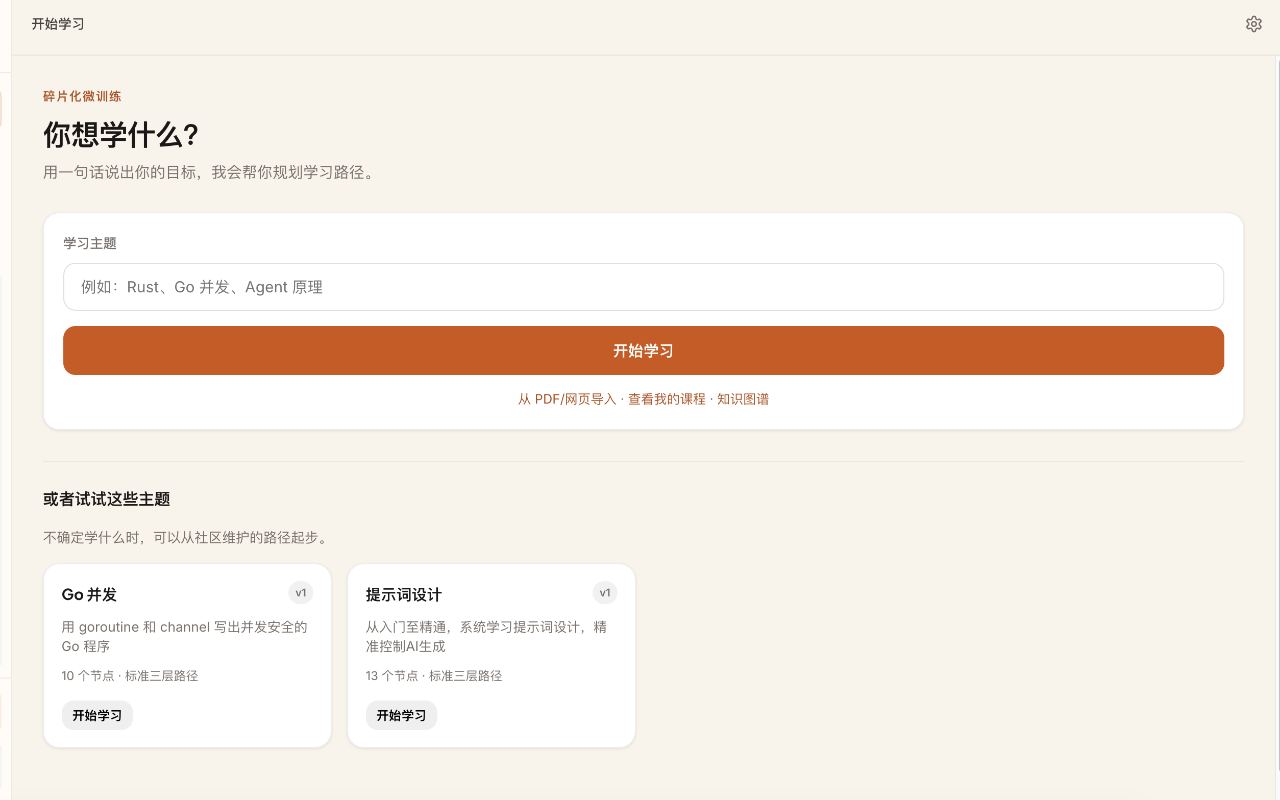
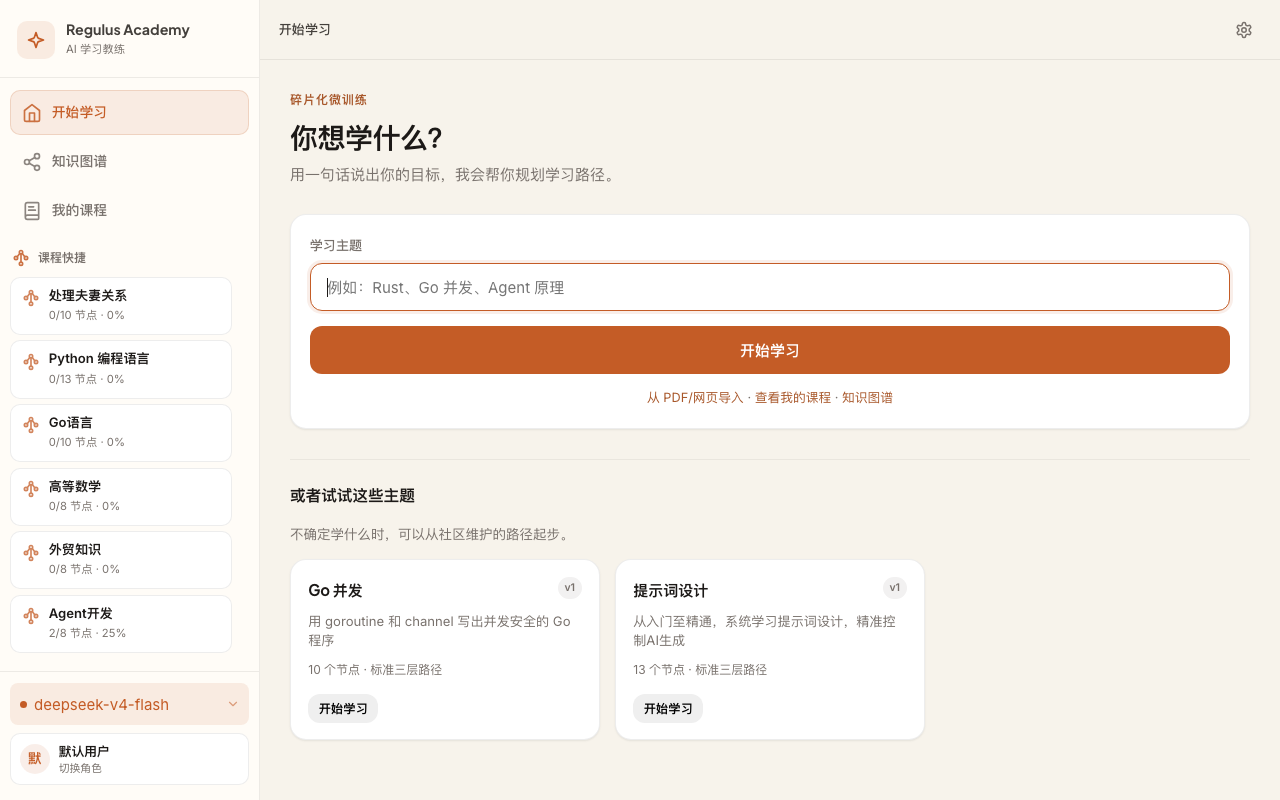
✨ feat: Enhance knowledge graph features and update documentation
- Refine knowledge graph to include dual views (图谱/目录) and dual themes (宣纸/星空) for improved user experience.
- Update related documentation across multiple files to reflect new features and terminology.
- Introduce new screenshots showcasing the updated graph views and themes.
- Ensure consistency in references to the knowledge graph throughout the documentation.

diff --git a/DESIGN.md b/DESIGN.md
@@ -1,33 +1,31 @@
 # Regulus Academy — 设计理念
 
-> 这些原则是在无数次自我否定和竞品体验中沉淀下来的。
-> 不是凭空想出来的，而是被 DeepTutor 的配置劝退、被 OpenMAIC 的慢节奏拖到放弃之后，一点点挖出来的答案。
+> 这些原则来自一个在职工程师的真实学习处境：时间碎、精力少、又怕半途而废还有因为完美主义导致的难以开始做出行动。
+> 不是对照表上设计出来的，是在通勤、午休、哄睡孩子之后——一次次反复试错之后沉淀下来的。
 
 ---
 
 ## 一、我们不是老师，是教练
 
-老师站在讲台上，对着 50 个人讲同一堂课。教练坐在你旁边，看你的动作，告诉你"这里肩膀再低一点"。
+老师站在讲台上，对着 50 个人讲同一堂课。教练坐在你旁边，看你的动作，告诉你"这里肩膀再低一点"。先让你能用起来，当你开始入门一个领域后，你才有动力学的更深。
 
 **教练的两个核心行为：**
 - **知道你现在在哪**——不给你推已经会的，也不给你推太难的；用户画像和学习目标会裁剪公共知识树，聚焦该练的部分
-- **只纠正你最该纠正的那一个动作**——不是把教科书写进对话框
+- **只纠正你最该纠正的那一个动作**——不是把教科书写进对话框，而是陪你关注当前最有可能用到的
 
 ## 二、15 分钟是一个神圣的单位
 
 不是 45 分钟，不是 2 小时，是 **15 分钟**。
 
-因为通勤地铁是 15 分钟，午休间隙是 15 分钟，哄睡孩子之后的精力残值是 15 分钟。
+因为通勤地铁是 15 分钟，午休间隙是 15 分钟，哄睡孩子之后的精力残值是 15 分钟，想刷手机，15分钟可能就看了几个短视频。
 
-一个 15 分钟包含：一个知识点 + 一个练习 + 一次反馈。做完了，大脑收到了明确的"完成"信号，可以安心去干别的。不会像 2 小时的视频课，永远卡在 43%。
+一个 15 分钟包含：一个知识点 + 一个练习 + 一次反馈。做完了，大脑收到了明确的"完成"信号，可以安心去干别的——不必背负「这堂课才看了三分之一」的亏欠感。
 
 > 15 分钟是用户场景的叙事单位，不写入 Prompt 计时——教练按节点边界推进，而不是掐表。
 
 ## 三、知识边界比知识库重要
 
-我们不做知识库。不是因为技术不行，是因为不需要。
-
-大模型已经学过 Go 并发、Agent 原理、RAG 架构。它缺的不是资料，是**边界**。
+我们不做知识库。大模型已经学过绝大多数开发者技术栈，缺的不是资料，是**边界**。
 
 每个节点只定义三样东西：
 - **该讲什么**（核心概念）  
@@ -56,13 +54,13 @@ Web 与 IM 共用同一份进度和会话记忆：终端上学到一半，换浏
 
 我们不追求"系统性"，追求"可用性"。
 
-今天学了 goroutine，晚上回家就能在项目里开一个协程。明天学了 channel，就能用 channel 重构上周写的共享变量。
+今天学了一个知识点，模型给你出了题目，你从一开始的完全不会，经历两到三轮的讲解重复训练，可以帮助自己快速对这块生成熟悉感，这个过程可能有点痛苦，但是它真的很快
 
-用户不需要等到"学完整个 Go 并发"才有产出。每一个节点学完，都有一件事他今天就能干。
+用户不需要等到"学完整个"才有产出。每一个节点学完，都有能快速练习的，不需要打开编译器，不需要搭建环境，让模型判断你是否有掌握。
 
 ## 六、用户不知道自己在被"强化"
 
-每个人学习都会犯错。传统的做法是告诉你"这道题你上次错了，再做一次"——用户立刻觉得自己很笨，想关掉。
+每个人学习都会犯错。若直接说「这道题你上次错了，再做一次」，很容易让人想关掉。
 
 我们的做法：Agent 悄悄把上次的错题埋进今天的练习里，换一套表述，换一种题型。用户以为在做新练习，实际上在被精准强化。
 
@@ -110,29 +108,44 @@ Web 与 IM 共用同一份进度和会话记忆：终端上学到一半，换浏
 
 ## 九、知识图谱：全局感知，不是装饰
 
-图谱图（`#/graph`）是整个设计里最难取舍的一个决定。
+知识图谱（`#/graph`）是整个设计里最难取舍的一个决定。
 
 开始我们只有课程列表和知识树详情。列表看不到课程之间的关系，树只能看单门课。用户学了三门课之后，不知道它们彼此的关联——Go 并发和 Agent 原理，哪里是共通的？学完一门再学另一门，有没有捷径？
 
 图谱解决的是**全局感知**问题：当你有多门课，你需要一张地图，告诉你「你在哪、还有多远、相关的在哪」。
 
-**三层 LOD（细节层级）**——这是整个图谱体验的核心机制。不是所有信息同时显示，而是随缩放逐层揭示：
+**图谱 / 目录双视图**——同一页两种读法：
 
-| 缩放层级 | 可见内容 | 类比 |
+| 视图 | 适合 |
+|------|------|
+| **图谱** | 沉浸式看全局关系、缩放探索、父子课程有向边 |
+| **目录** | 按领域卡片 + 模块清单浏览，点开即练 |
+
+**宣纸 / 星空双主题**——
+
+产品曾叫「知识银河」，后来做了宣纸模式，我们改成了更中性的「知识图谱」——不是放弃星空，而是承认：读一张学习地图，可以有两种心情。
+
+**宣纸**是默认主题。我喜欢纸张微微发黄的暖色，某天突然想：能不能把学过的节点画在宣纸上？试了几版水墨晕染和墨迹圈点之后，当一个知识点被墨色轻轻圈住，会有种奇怪的治愈感——像在自己篇幅有限的地图上盖了一枚小印。
+
+**星空**是早期的模样，也是我还想要的远景：总有一天，学过的知识能连成自己的银河——星座是领域，星辰是课程；缩到最远，仍能看到那些曾经点亮的星光。
+
+目录视图的顶栏固定宣纸色；图谱画布的主题偏好存在浏览器本地，随时可切。
+
+**三层 LOD（细节层级）**——图谱视图的核心机制。不是所有信息同时显示，而是随缩放逐层揭示：
+
+| 缩放层级 | 可见内容 | 说明 |
 |---------|---------|------|
-| Galaxy（全景） | 仅领域节点，带星云光晕 | 星图看星座 |
-| Constellation（星座） | 领域 + 模块节点 | 望远镜看星群 |
-| Node（节点） | 全部节点 + 学习路径连线 | 近看星系细节 |
+| 全景 | 仅领域节点 | 宣纸为水墨晕染；星空为星云光晕 |
+| 星座 | 领域 + 模块节点 | 同主题族聚簇排布 |
+| 节点 | 全部节点 + 学习路径连线 | 近看每门课内的推荐路径与点亮状态 |
 
-缩放越小越像在看宇宙全图；缩放越大进入细节，看到每个节点之间的推荐路径和当前点亮状态。
+**星座聚类**——同一主题族的领域自动聚成一簇（如 Go 语言相关的领域相邻），用可见连线表达相关性，不同主题族之间只有隐形排斥边维持距离。父子课程之间另有**有向边**（父 → 子），与弱关联的星座边区分。
 
-**星座聚类**——同一主题族的领域自动聚成星座（如 Go 语言相关的领域聚成一簇），用可见连线表达相关性，不同主题族之间只有隐形排斥边维持距离。这个设计来自一个简单的观察：学习路径是有拓扑结构的，但我们不需要明确绘制所有依赖，只需要让「近的近，远的远」。
+**进度光效**——节点按学习状态发光：进行中橙色脉冲，已完成变为金色呼吸；全领域完成在星空主题下变为星光（starlight）。宣纸主题用墨色印章与淡染表达同类信息——同一套进度语义，两套视觉语言。
 
-**进度光效**——节点按学习状态发光：进行中橙色脉冲，已完成金色呼吸光晕，全领域完成则变成星光（starlight）。这不是装饰，是一种「进度可视化的游戏化」——用星空的语言表达掌握程度，比百分比数字更直观、更有仪式感。
-
-**设计取舍**：图谱是辅助视图，不是主路径。它的入口在侧栏，不挡「输入领域 → 选节点 → 对话学习」这条主线。用户可以永远不打开图谱，也能完整地学习；但当他们想要「退后一步看全局」的时候，它在那里。
+**设计取舍**：图谱是辅助视图，不是主路径。不宜做过多暴露，优先把界面与注意力丢给学习主路径
 
 ---
 
 > 这些理念不是规则，是假设。每一个都需要被真实用户验证。
-> 如果其中一条被证伪，那就改掉它——教练的第一个学生，永远是我们自己。
+> 如果其中一条被证伪，那就改掉它——第一个学生，就是我自己。

diff --git a/docs/screenshots/README.md b/docs/screenshots/README.md
@@ -17,8 +17,11 @@ README 与 [在线文档](https://regulus-academy-docs.vercel.app/guide/screensh
 
 | 文件 | 页面 | 路由 | 拍摄要点 |
 |------|------|------|----------|
-| `graph-galaxy.png` | 知识图谱 · 图谱 | `#/graph` | 星空主题、多领域节点；可见「图谱 \| 目录」切换 |
-| `graph-outline.png` | 知识图谱 · 目录 | `#/graph?view=outline` | 领域卡片 + 模块手风琴 + 节点列表 |
+| `graph-paper.png` | 知识图谱 · 图谱（宣纸） | `#/graph` | **默认主题**；多领域节点；可见「图谱 \| 目录」与主题切换按钮（显示「星空」表示当前为宣纸） |
+| `graph-sky.png` | 知识图谱 · 图谱（星空） | `#/graph` | 点击顶栏切到星空后拍摄；星云光晕、进度星光可见 |
+| `graph-outline.png` | 知识图谱 · 目录 | `#/graph?view=outline` | 领域卡片 + 模块手风琴 + 节点列表（顶栏固定宣纸色） |
+
+> **需手动拍摄**：`graph-sky.png` 需在浏览器中切换到星空主题后截取（见下方「知识图谱主题」）。`graph-paper.png` 可由自动脚本生成（默认宣纸），也可手动重拍以更清晰展示主题按钮。
 
 ### 教练与建课
 
@@ -34,6 +37,19 @@ README 与 [在线文档](https://regulus-academy-docs.vercel.app/guide/screensh
 | `cloud-home.png` | 开始学习 | `#/`（`seedProfile`） | 页脚 Cloud 条、共学/额度信息 |
 | `cloud-profile.png` | 角色选择 | `#/`（**无** seed） | 创建/选择学习角色弹窗 |
 | `cloud-settings.png` | 设置 | `#/settings` | 「在线演示模式」横幅 + IM 频道禁用态 |
+
+## 知识图谱主题（手动拍摄）
+
+图谱页 `#/graph` 顶栏有主题快捷按钮：当前为宣纸时按钮文案为「星空」，点击后切到星空（反之亦然）。偏好写入 `localStorage` 键 `regulus:graphCanvasTheme`。
+
+**推荐步骤（Chrome 1280×800）：**
+
+1. 打开 `http://localhost:5173/?seedProfile=...#/graph`（或清空该 localStorage 键，默认即为宣纸）
+2. 确认画布为宣纸风格 → 保存为 **`graph-paper.png`**
+3. 点击顶栏「星空」→ 确认星云/星光效果 → 保存为 **`graph-sky.png`**
+4. 切换到「目录」标签或访问 `#/graph?view=outline` → 保存为 **`graph-outline.png`**（若需更新）
+
+有父子课程时，图谱视图可额外拍到父 → 子有向边（可选，非必须）。
 
 ## 规格建议
 
@@ -62,6 +78,8 @@ SCREENSHOT_MODE=cloud node scripts/capture-screenshots.mjs
 
 脚本通过 dev 专用的 `?seedProfile=` 跳过角色选择弹窗；`cloud-profile.png` 故意不使用 seed。
 
+自动脚本默认输出 `graph-paper.png`（宣纸主题）。`graph-sky.png` 需按下方步骤手动拍摄。
+
 ### 环境变量
 
 | 变量 | 默认 | 说明 |
@@ -85,4 +103,8 @@ REGULUS_CLOUD_ENCRYPTION_KEY=<openssl rand -hex 32>
 
 ## 迁移说明
 
-旧文件 `graph.png` 已更名为 **`graph-galaxy.png`**。若本地仍有 `graph.png`，可删除或复制为 `graph-galaxy.png`。
+| 旧文件 | 新文件 | 说明 |
+|--------|--------|------|
+| `graph.png` | `graph-paper.png` 或 `graph-sky.png` | 按主题拆分 |
+| `graph-galaxy.png` | `graph-paper.png`（默认）/ `graph-sky.png`（星空） | 产品改称「知识图谱」后文件名与主题对齐 |
+| — | 删除 `graph-galaxy.png` | 新截图就位后可删 |

diff --git a/README.md b/README.md
@@ -141,7 +141,7 @@ LANGFUSE_LOG_CONTENT=true                 # false 则不记录 prompt 正文
 |------|------|
 | `#/` | 开始学习（输入领域、建课） |
 | `#/import` | 从 PDF 或网页 URL 导入材料并蒸馏建课 |
-| `#/graph` | 知识图谱（多领域全景，缩放切换全景/星座/节点层级） |
+| `#/graph` | 知识图谱（图谱/目录双视图，宣纸/星空双主题，缩放切换全景/星座/节点层级） |
 | `#/courses` | 我的课程 |
 | `#/tree/:id` | 课程详情（纵深扩展、导出 Skill 包 / Obsidian 学习笔记） |
 | `#/coach/:sessionId` | AI 教练对话 |
@@ -197,11 +197,13 @@ make test
 |:---:|:---:|:---:|
 | | <img src="./docs/screenshots/tree-extend.png" width="280" alt="纵深扩展" /> | |
 
-### 知识图谱（双视图）
+### 知识图谱（图谱 / 目录 · 宣纸 / 星空）
 
-| 图谱视图 `#/graph` | 目录视图 `#/graph?view=outline` |
-|:---:|:---:|
-| <img src="./docs/screenshots/graph-galaxy.png" width="280" alt="知识图谱·图谱" /> | <img src="./docs/screenshots/graph-outline.png" width="280" alt="知识图谱·目录" /> |
+| 图谱 · 宣纸（默认） | 图谱 · 星空 | 目录 |
+|:---:|:---:|:---:|
+| <img src="./docs/screenshots/graph-paper.png" width="280" alt="知识图谱·宣纸" /> | <img src="./docs/screenshots/graph-sky.png" width="280" alt="知识图谱·星空" /> | <img src="./docs/screenshots/graph-outline.png" width="280" alt="知识图谱·目录" /> |
+
+顶栏可切换 **图谱 / 目录** 视图与 **宣纸 / 星空** 主题（默认宣纸）。拍摄说明见 [`docs/screenshots/README.md`](./docs/screenshots/README.md)。
 
 ### 教练闭环与建课
 
@@ -279,7 +281,7 @@ make test
 | IM 自然语言导航 | 规则优先 + LLM 兜底；学习中消息直进教练 | ✅ 已实现 |
 | 多学习角色 | Web 切换角色，进度与课程列表隔离 | ✅ 已实现 |
 | 主题模块 × 掌握深度 | module 按主题分簇，layer 按入门 / 熟悉 / 精通分层 | ✅ 已实现 |
-| 知识图谱 | `#/graph` 多领域全景；星座聚类、进度光效、缩放 LOD | ✅ 已实现 |
+| 知识图谱 | `#/graph` 图谱/目录双视图，宣纸/星空双主题；星座聚类、进度光效、缩放 LOD | ✅ 已实现 |
 | 进度可视化 | 课程列表、详情页、图谱节点点亮 | ✅ 已实现 |
 | PDF/URL 导入建课 | `#/import` 摄取材料 → LLM 蒸馏大纲 → 生成知识树（异步 job） | ✅ 已实现 |
 | 纵深扩展 | 完成度 ≥80% 可解锁进阶路径，按课程规模追加约 2～8 个节点（可重复扩展）并保留进度 | ✅ 已实现 |

diff --git a/apps/docs/guide/screenshots.md b/apps/docs/guide/screenshots.md
@@ -21,9 +21,11 @@
 
 ## 知识图谱
 
-| 图谱视图 | 目录视图 |
-|:---:|:---:|
-| <img src="/screenshots/graph-galaxy.png" width="280" alt="知识图谱·图谱" /> | <img src="/screenshots/graph-outline.png" width="280" alt="知识图谱·目录" /> |
+| 图谱 · 宣纸（默认） | 图谱 · 星空 | 目录 |
+|:---:|:---:|:---:|
+| <img src="/screenshots/graph-paper.png" width="280" alt="知识图谱·宣纸" /> | <img src="/screenshots/graph-sky.png" width="280" alt="知识图谱·星空" /> | <img src="/screenshots/graph-outline.png" width="280" alt="知识图谱·目录" /> |
+
+顶栏可切换 **图谱 / 目录** 视图与 **宣纸 / 星空** 主题（默认宣纸；偏好存于浏览器）。拍摄要点见仓库 [`docs/screenshots/README.md`](https://github.com/liuwenji007/regulus-academy/blob/main/docs/screenshots/README.md)。
 
 ## 教练闭环与建课
 

diff --git a/apps/docs/guide/features.md b/apps/docs/guide/features.md
@@ -29,7 +29,7 @@ flowchart LR
 |------|------|
 | 建课 / 知识树 | 输入领域名，匹配内置 Skill 或由 LLM 生成完整路径 |
 | 讲解 → 练习 → 反馈 | 单节点闭环：讲解、出题、批改、掌握度评估与应用级练习门槛后点亮 |
-| 知识图谱 | `#/graph` 多领域全景；星座聚类、进度光效、图谱/目录双视图 |
+| 知识图谱 | `#/graph` 多领域全景；**图谱 / 目录**双视图；**宣纸 / 星空**双主题（默认宣纸）；星座聚类、进度光效、缩放 LOD |
 | PDF/URL 导入 | `#/import` 摄取材料 → LLM 蒸馏大纲 → 异步生成知识树 |
 | 多学习角色 | Web 切换角色，进度与课程列表按用户隔离 |
 | IM 自然语言导航 | 自托管可接 Telegram、钉钉、飞书；规则优先 + LLM 兜底 |

diff --git a/apps/docs/index.md b/apps/docs/index.md
@@ -20,7 +20,7 @@ features:
   - title: 零配置试用
     details: Cloud Demo 提供每日免费教练额度，用尽后可 BYOK 继续使用，无需 Docker。
   - title: 知识图谱
-    details: 多领域全景与目录双视图，进度光效一目了然。
+    details: 图谱 / 目录双视图，宣纸 / 星空双主题；多领域全景、进度光效与缩放 LOD。
   - title: AI 教练闭环
     details: 讲解 → 练习 → 规则建议 + LLM 综合评估 → 点亮；熟悉/精通层含应用级练习门槛。
   - title: 纵深扩展与导出

diff --git a/apps/docs/guide/quick-start.md b/apps/docs/guide/quick-start.md
@@ -48,7 +48,7 @@ pnpm dev               # Go API + Vite 前端
 | 选课 | `#/tree/:id` | 查看节点列表与进度 |
 | 学习 | `#/coach/:sessionId` | 讲解、练习、批改 |
 | 了解教练 | [教练流程](./coach-flow.md) | 阶段、话术、点亮规则 |
-| 全景 | `#/graph` | 多领域知识图谱 |
+| 全景 | `#/graph` | 知识图谱（图谱视图；可切换宣纸/星空主题） |
 | 导出 | `#/tree/:id` | Skill 包或 Obsidian 笔记 |
 
 更多能力见 [功能一览](./features.md) 与 [界面预览](./screenshots.md)。

diff --git a/apps/docs/guide/self-host.md b/apps/docs/guide/self-host.md
@@ -25,7 +25,7 @@ docker compose -f docker-compose.image.yml up -d
 |------|------|
 | `#/` | 开始学习（输入领域、建课） |
 | `#/import` | 从 PDF 或网页 URL 导入材料并蒸馏建课 |
-| `#/graph` | 知识图谱（多领域全景） |
+| `#/graph` | 知识图谱（图谱/目录双视图，宣纸/星空双主题） |
 | `#/courses` | 我的课程 |
 | `#/tree/:id` | 课程详情（纵深扩展、Skill/笔记导出） |
 | `#/coach/:sessionId` | AI 教练对话 |

diff --git a/PLAN.md b/PLAN.md
@@ -107,7 +107,7 @@ Phase 0 ✅      Phase 1 ✅      Phase 1.5 ✅    Phase 2 ✅      Phase 3 ✅ 
 
 ### 高优（已在做）
 
-- [x] 知识图谱体验打磨（LOD 分级、星座光晕、物理引擎调优）
+- [x] 知识图谱体验打磨（LOD 分级、宣纸/星空双主题、星座聚类、物理引擎调优）
 - [ ] Skill 发布到市场（hermes / 其他 Agent 框架）
 - [ ] 更多内置知识域（Agent 原理 / Python / RAG / Nginx / Docker 进阶）
 
